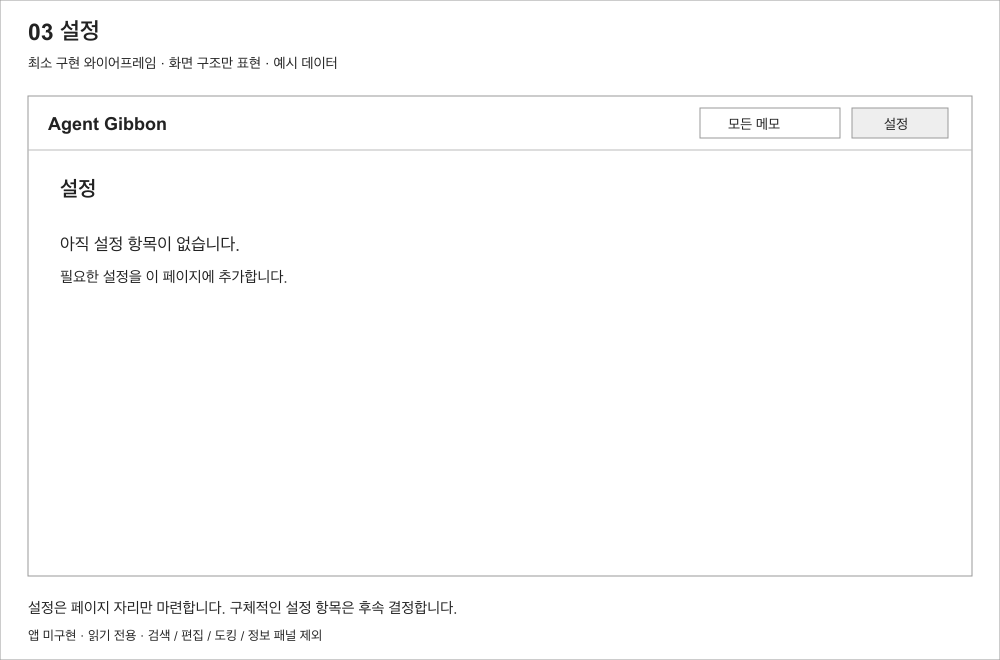
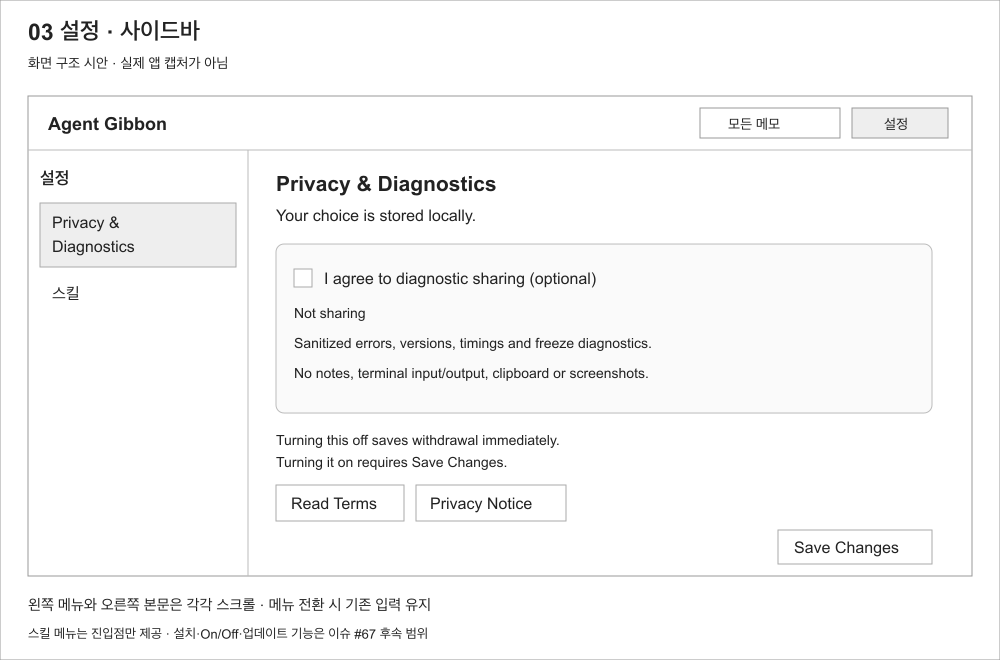
설정 사이드바에 프라이버시와 스킬 메뉴를 분리
기존 프라이버시 저장·철회와 미저장 선택을 보존하고 스킬 관리 진입점을 마련한다. 디자인 시스템·시안과 검증 기록을 갱신한다.

검증: UI 82개, 개발 빌드, 기본·최소 크기 브라우저 검사 통과. 네이티브 설정 UI와 Windows·Intel은 미검증.

Refs #69

diff --git a/ui/manager.css b/ui/manager.css
@@ -1,7 +1,19 @@
-*{box-sizing:border-box}body{margin:0;height:100vh;display:flex;flex-direction:column;background:white;color:#222;font:16px/1.5 system-ui,sans-serif}header{display:flex;align-items:center;justify-content:space-between;padding:12px 20px;border-bottom:1px solid #bbb}nav{display:flex;gap:10px}button{font:inherit;color:inherit;background:white;border:1px solid #aaa;padding:6px 16px;cursor:pointer}button[aria-pressed=true],button[aria-current=true]{background:#eee}button:focus-visible,section:focus-visible{outline:2px solid #333;outline-offset:-2px}[hidden]{display:none!important}main{display:grid;grid-template-columns:250px minmax(0,1fr);flex:1;min-height:0}aside{border-right:1px solid #bbb;padding:16px 12px;overflow:auto}h2{font-size:17px;margin:0 0 16px}#list button{display:block;width:100%;text-align:left;border-color:transparent;margin-bottom:8px;overflow-wrap:anywhere}#list button[aria-current=true]{border-color:#aaa}#detail{padding:20px 28px;overflow:auto;overflow-wrap:anywhere}#detail h1{font-size:21px;margin:0 0 20px;border-bottom:1px solid #ccc;padding-bottom:16px}#detail img{max-width:100%;height:auto}pre{white-space:pre-wrap}table{border-collapse:collapse}td,th{border:1px solid #ccc;padding:6px}#settings-page{padding:20px 32px;overflow:auto}#error{padding:8px 20px;border-bottom:1px solid #aaa}
+*{box-sizing:border-box}body{margin:0;height:100vh;display:flex;flex-direction:column;background:white;color:#222;font:16px/1.5 system-ui,sans-serif}header{display:flex;align-items:center;justify-content:space-between;padding:12px 20px;border-bottom:1px solid #bbb}nav{display:flex;gap:10px}button{font:inherit;color:inherit;background:white;border:1px solid #aaa;padding:6px 16px;cursor:pointer}button[aria-pressed=true],button[aria-current=true]{background:#eee}button:focus-visible,section:focus-visible{outline:2px solid #333;outline-offset:-2px}[hidden]{display:none!important}main{display:grid;grid-template-columns:250px minmax(0,1fr);flex:1;min-height:0}aside{border-right:1px solid #bbb;padding:16px 12px;overflow:auto}h2{font-size:17px;margin:0 0 16px}#list button{display:block;width:100%;text-align:left;border-color:transparent;margin-bottom:8px;overflow-wrap:anywhere}#list button[aria-current=true]{border-color:#aaa}#detail{padding:20px 28px;overflow:auto;overflow-wrap:anywhere}#detail h1{font-size:21px;margin:0 0 20px;border-bottom:1px solid #ccc;padding-bottom:16px}#detail img{max-width:100%;height:auto}pre{white-space:pre-wrap}table{border-collapse:collapse}td,th{border:1px solid #ccc;padding:6px}#error{padding:8px 20px;border-bottom:1px solid #aaa}
 
 .list-heading{display:flex;align-items:center;justify-content:space-between;margin-bottom:16px}.list-heading h2{margin:0}.list-heading button{font-size:12px;padding:4px 8px}#list button{white-space:nowrap;overflow:hidden;text-overflow:ellipsis}
 
 #privacy-welcome{flex:1;min-height:0;overflow:auto;padding:24px} .privacy-card{max-width:640px;margin:0 auto;padding:12px 8px}.privacy-card h1{font-size:25px;margin:0 0 12px}.privacy-card h2{font-size:21px;margin:12px 0}.privacy-card h3{font-size:17px;margin:0 0 10px}.privacy-box{border:1px solid #bbb;border-radius:8px;background:#fafafa;padding:18px;margin:20px 0}.privacy-box p{font-size:14px;color:#444}.privacy-choice{display:flex;align-items:flex-start;gap:10px;margin:16px 0}.privacy-choice input{width:18px;height:18px;flex:0 0 18px;margin-top:3px;accent-color:#333}.privacy-choice span{color:#555}.privacy-actions{display:flex;align-items:center;justify-content:space-between;gap:16px;margin-top:28px}.privacy-notice{background:#eee;border:1px solid #ccc;border-radius:6px;padding:14px;font-size:14px}.privacy-links{display:flex;gap:12px}.privacy-settings{margin:0;max-width:720px}button:disabled{opacity:.55;cursor:default}#privacy-error{padding:12px 24px;background:#f8eeee;color:#722}#privacy-retry{align-self:flex-start;margin:8px 24px}#privacy-storage-warning{padding:0 24px}.privacy-document{position:fixed;inset:16px;z-index:20;overflow:auto;background:#fff;border:2px solid #666;padding:24px;box-shadow:0 8px 24px #0003}.privacy-document-heading{display:flex;justify-content:space-between;align-items:center;gap:20px}.privacy-document article{max-width:800px;margin:24px auto;overflow-wrap:anywhere}.privacy-document article h1{font-size:24px}.privacy-document article h2{margin-top:28px}#privacy-retry[hidden]{display:none}
 
 .privacy-agreement{margin:20px 0 0;padding-top:16px;border-top:1px solid #ddd}.privacy-choice .privacy-choice-label{color:inherit}
+
+/* Settings shares the manager's two-panel navigation structure. */
+#settings-page{display:grid;grid-template-columns:220px minmax(0,1fr);flex:1;min-height:0;padding:0;overflow:hidden}
+.settings-sidebar h1{font-size:17px;margin:0 0 16px}
+.settings-sidebar nav{display:flex;flex-direction:column;gap:8px}
+.settings-sidebar button{width:100%;min-height:36px;padding:8px 12px;text-align:left;border-color:transparent;overflow-wrap:anywhere}
+.settings-sidebar button[aria-current=page]{background:#eee;border-color:#aaa}
+.settings-content{min-width:0;overflow:auto;padding:20px 28px;scrollbar-gutter:stable}
+.settings-content h2{font-size:21px;margin:12px 0}
+.settings-content .privacy-card{padding:0}
+.settings-content .privacy-links,.settings-content .privacy-actions{flex-wrap:wrap}
+@media(max-width:680px){#settings-page{grid-template-columns:164px minmax(0,1fr)}.settings-content{padding:16px}.settings-sidebar{padding:16px 8px}.settings-sidebar button{font-size:14px;padding:8px}}

diff --git a/ui/manager.html b/ui/manager.html
@@ -3,12 +3,20 @@
 <body><header><strong>Agent Gibbon</strong><nav id="manager-navigation" aria-label="관리 탐색" hidden><button id="notes-nav" aria-pressed="true">모든 메모</button><button id="settings-nav" aria-pressed="false">설정</button></nav></header>
 <div id="error" role="alert" hidden>메모를 읽지 못했습니다. <button id="retry">다시 시도</button></div>
 <main id="notes-page" hidden><aside aria-label="메모 목록"><div class="list-heading"><h2>모든 메모</h2><button id="refresh" aria-label="메모 목록 새로고침">새로고침</button></div><div id="list"></div></aside><section id="detail" aria-label="메모 상세" tabindex="0"><p>메모를 선택하세요.</p></section></main>
-<section id="settings-page" hidden><h1>Settings</h1><div class="privacy-card privacy-settings"><h2>Privacy &amp; Diagnostics</h2><p>Your choice is stored locally.</p>
+<section id="settings-page" aria-label="설정" hidden>
+<aside class="settings-sidebar"><h1>설정</h1><nav aria-label="설정 항목">
+<button id="settings-privacy-nav" type="button" aria-current="page" aria-controls="settings-privacy">Privacy &amp; Diagnostics</button>
+<button id="settings-skills-nav" type="button" aria-controls="settings-skills">스킬</button>
+</nav></aside>
+<div class="settings-content">
+<section id="settings-privacy" aria-labelledby="settings-privacy-title"><div class="privacy-card privacy-settings"><h2 id="settings-privacy-title">Privacy &amp; Diagnostics</h2><p>Your choice is stored locally.</p>
 <div class="privacy-box"><label class="privacy-choice"><input id="privacy-setting-share" type="checkbox" disabled> I agree to diagnostic sharing (optional)</label><p id="privacy-sharing-status" role="status">Not sharing</p><p>Sanitized errors, app/OS versions, operation timings and freeze diagnostics.</p><p>No notes, terminal input/output, clipboard or screenshots.</p><p>Sent to Sentry in Iowa, United States. Originals: up to 30 days. Read the notice for backup and aggregate retention and overseas transfer details.</p></div>
 <p>Turning this off saves withdrawal immediately. Turning it on requires Save Changes. A request already started before withdrawal may finish. Previously uploaded information is handled separately.</p>
 <p id="privacy-settings-draft" class="privacy-notice">Sharing is unavailable until all privacy details are published. Read the Privacy Notice for the current operator, storage region and retention information.</p>
 <div class="privacy-links"><button id="privacy-settings-terms" type="button">Read Terms</button><button id="privacy-settings-notice" type="button">Privacy Notice</button></div>
 <div class="privacy-actions"><span id="privacy-save-result" role="status"></span><button id="privacy-save" type="button" disabled>Save Changes</button></div></div></section>
+<section id="settings-skills" aria-labelledby="settings-skills-title" hidden><h2 id="settings-skills-title">스킬</h2><p>스킬 설정은 준비 중입니다.</p></section>
+</div></section>
 <section id="privacy-welcome" aria-labelledby="privacy-welcome-title">
   <div class="privacy-card">
     <h1 id="privacy-welcome-title">Welcome to Agent Gibbon</h1><h2>Terms &amp; Privacy</h2>

diff --git a/ui/manager.js b/ui/manager.js
@@ -2,6 +2,18 @@
 const invoke = window.gibbonInvoke || window.__TAURI__.core.invoke;
 const el = id => document.getElementById(id);
 let notes = [], selected = null, busy = false, detailVersion = 0, signature = '';
+// Register settings destinations here; navigation preserves each panel's DOM.
+const settingsSections = ['privacy', 'skills'];
+function settingsSection(selectedSection) {
+  for (const section of settingsSections) {
+    const active = section === selectedSection;
+    el(`settings-${section}`).hidden = !active;
+    el(`settings-${section}-nav`).setAttribute('aria-current', active ? 'page' : 'false');
+  }
+}
+for (const section of settingsSections) {
+  el(`settings-${section}-nav`).onclick = () => settingsSection(section);
+}
 function page(settings) {
   if(window.gibbonPrivacy && !window.gibbonPrivacy.accepted()){window.gibbonPrivacy.showWelcome();return;}
   el('notes-page').hidden = settings;

diff --git a/docs/design-system.md b/docs/design-system.md
@@ -1,5 +1,14 @@
 # Agent Gibbon Design System
 
+### 설정 사이드바 — #67 진입점 (2026-11-06)
+
+- 관리 창 상단의 `모든 메모 / 설정`을 유지하고 설정 안에 왼쪽 탐색·오른쪽 본문을 둔다. 메뉴는 기존 동의 기능의 `Privacy & Diagnostics`와 `스킬`이다. 처음에는 프라이버시를 표시하고, 관리 창을 열어 둔 동안 마지막으로 선택한 설정 항목을 유지한다.
+- 선택 메뉴는 회색 배경·테두리와 `aria-current="page"`, 키보드 초점은 별도 외곽선으로 표시한다. 기본 버튼의 Tab·Enter·Space 조작을 사용한다. 메뉴와 본문은 각각 스크롤하며, 본문이 길어도 사이드바를 밀어내지 않는다.
+- 메뉴 전환은 패널을 다시 만들지 않아 프라이버시의 미저장 선택을 유지한다. 기존 명시적 저장·즉시 철회·로컬 약관 열람 및 첫 실행 동의 경계를 유지한다. 모든 메모의 선택도 유지한다.
+- 이번 구현은 사이드바와 메뉴 등록 범위다. `스킬`에는 준비 중 상태를 표시하며 이슈 #67의 스킬 목록·On/Off·설치·업데이트를 구현 완료로 표시하지 않는다. 실제 제공 스킬이 결정되기 전에 예시 스킬이나 작동하지 않는 스위치를 추가하지 않는다.
+- 구현 수치: 기본 사이드바 220px, 680px 이하에서 164px, 본문 여백 20px/28px(좁을 때 16px). 실제 최소 창 600×360에서 스크롤 접근성을 확인한다. 기존 메모 창의 위치·포커스·숨김 동작은 변경하지 않는다.
+- [설정 시안 SVG](design/manager-settings-wireframe.svg)·[PNG](design/manager-settings-wireframe.png)를 갱신했다. 시안은 설명용이며 실행 결과와 구분한다. 검증과 미실행 범위는 [작업 기록](verification/settings-sidebar-20261106.md)을 따른다.
+
 ### Windows 반복 행 조사 계측 — #66 (2026-11-06)
 
 - 메모 상태 조회의 Notes 잠금을 네이티브 창 조회 전에 해제하고 별도 선택형 로컬 단계 기록을 추가했다. 외형·배치·포커스·숨김에 관한 기존 기준과 SVG/PNG는 유지한다.
@@ -401,13 +410,13 @@ Toast 한 줄 높이는 위 제안값에서 약 25px, Action Bar는 약 32px가 
 - 텍스트는 Markdown 미리보기, 캡처 메모는 이미지 미리보기로 표시한다. 두 화면은 같은 상세 패널의 콘텐츠 유형 차이이며 별도의 페이지가 아니다. 목록과 긴 본문은 각각 스크롤한다. 이미지는 패널 너비에 맞춘다.
 - 최초에는 `메모를 선택하세요`, 저장 메모가 없으면 `아직 메모가 없습니다`를 표시한다. 읽기 실패 시 오류와 `다시 시도`를 제공한다.
 - 선택 강조는 조회 대상을 뜻한다. 조회만으로 플로팅 메모의 표시·숨김·위치·포커스를 변경하지 않는다.
-- 설정은 **진입과 페이지 전환만** 마련한다. 구체적인 설정 항목은 아직 정하지 않았으므로 `아직 설정 항목이 없습니다`라는 빈 상태를 둔다. 작동하지 않는 입력이나 저장 버튼을 배치하지 않는다. 실제 설정 변경 기능은 후속 범위다.
+- 초기 구현은 빈 설정 페이지였으며, 현재 설정의 구성·동작은 위의 **설정 사이드바**와 **첫 실행 약관·선택적 진단 동의** 기준으로 대체한다.
 - 설정에서 돌아오면 같은 관리 창에서 선택한 메모를 유지한다. 관리 창을 닫아도 플로팅 메모와 앱 실행은 유지한다. Tray Menu의 `메모 관리`를 진입점으로 제안한다.
 - 키보드 Tab으로 탐색·목록 항목에 접근하고 Enter로 선택할 수 있게 하며 포커스를 표시한다. 패널의 역할·순서는 고정하고 자유로운 드래그 재배치는 제공하지 않는다.
 
 ### 이번 범위에서 제외
 
-검색·필터·정렬 UI, 새 메모 생성, 원문 편집, 복사·내보내기, 화면에 띄우기·숨기기, 메모 정보 패널, 이미지 확대 조작, 설정 분류·입력·저장, 사용자 패널 재배치, 좁은 창의 별도 단일 패널 탐색은 후속 검토로 미룬다. 이는 관리 창의 범위이며 기존 플로팅 메모·CLI 기능을 제거한다는 뜻이 아니다. 앞서 정의한 Memo Info Panel·Editor 등 용어는 유지하되 이번 관리 창에 모두 구현하지 않는다.
+검색·필터·정렬 UI, 새 메모 생성, 원문 편집, 복사·내보내기, 화면에 띄우기·숨기기, 메모 정보 패널, 이미지 확대 조작, 사용자 패널 재배치, 좁은 창의 별도 단일 패널 탐색은 후속 검토로 미룬다. 이는 관리 창의 범위이며 기존 플로팅 메모·CLI 기능을 제거한다는 뜻이 아니다. 앞서 정의한 Memo Info Panel·Editor 등 용어는 유지하되 이번 관리 창에 모두 구현하지 않는다.
 
 제안 창 크기는 944×480이며 최소 지원 크기는 구현 시 내용과 키보드 접근을 확인해 결정한다. 앱의 기본 색상·아이콘·장식 디자인은 이번 시안에서 정하지 않는다.
 

diff --git a/docs/verification/settings-sidebar-20261106.md b/docs/verification/settings-sidebar-20261106.md
@@ -1,0 +1,45 @@
+# 설정 사이드바와 메뉴 등록 — 2026-11-06
+
+이번 구현 범위는 설정 사이드바, 기존 프라이버시 기능의 메뉴 분리, 이슈 #67의 스킬 메뉴 진입점이다. 스킬 화면은 준비 중 상태이며 스킬 목록·On/Off·자동 설치·업데이트·영속 저장은 구현하지 않았다. 이슈 #67 전체 완료를 뜻하지 않는다.
+
+## 수행 결과
+
+- [x] 사이드바에 Privacy & Diagnostics / 스킬 등록, 선택 강조와 접근성 현재 페이지 상태 제공.
+- [x] 프라이버시 UI를 기존 ID·저장 이벤트 그대로 별도 패널에 배치. 메뉴 전환 시 DOM·미저장 선택 유지.
+- [x] 기본 버튼의 클릭·Enter·Space·Tab, 모든 메모 선택 및 설정 항목 유지 검사.
+- [x] UI 테스트 82개 통과(`npm run test:ui`). 프라이버시의 동의 경계·저장·즉시 철회 회귀 검사 포함.
+- [x] 실제 UI 자산의 headless Chrome 검사: 944×480 / 600×360에서 가로 넘침 없음, 하단 Save Changes 스크롤 접근, 메뉴 전환, 미저장 선택 유지, 저장 및 끄기 즉시 호출 확인. Tauri 호출은 메모리 mock으로 대체했다. JavaScript 오류 없음.
+- [x] `npm run dev:build` 통과(최종 증분 빌드 포함), `node --check ui/manager.js`, `git diff --check` 통과.
+- [x] 기존 설정 시안 SVG·PNG 갱신, rsvg-convert 렌더와 실제 브라우저 캡처 시각 확인.
+- [ ] 네이티브 Manager UI·실제 저장 파일·실행 중 서버 inspect 검증 미수행. 개발 앱 미실행으로 list가 `ok:false / 앱이 실행 중이지 않습니다`를 반환했다. 해당 결과를 실행 중 서버의 출처 확인으로 간주하지 않는다.
+- [ ] Windows·Intel·실제 스크린리더 읽기 미검증.
+
+## 실행 출처
+
+- 작업 루트: `/Users/egoinglee/orca/workspaces/agent-gibbon/floatnote/on-off`.
+- `npm run dev:info`: root는 위 경로, instance `dev-1206da86e9acf14ddf9c123c`, binary는 해당 루트 `src-tauri/target/debug/agent-gibbon`.
+- `scripts/agent-gibbon-dev --instance-info`: `ok:true`, instance 일치, manifest_dir는 해당 루트의 `src-tauri`.
+- `scripts/agent-gibbon-dev list`: `ok:false`, 앱 미실행. 검증 메모·네이티브 PID·창 식별 근거는 없으며 브라우저 결과를 네이티브 검증으로 보고하지 않는다. 다른 워크트리나 설치 앱을 대체 실행하지 않았다.
+- 환경: macOS ARM64, Node v24.21.0, Rust 1.91.1. 브라우저 자동화는 설치된 Chrome 및 기존 puppeteer-core 25.16.0 사용, 의존성 추가 없음.
+
+재현 스크립트: `scripts/settings-sidebar-smoke.mjs`. 기존 puppeteer-core를 `PUPPETEER_MODULE`에 절대 모듈 경로로 지정하고 `node scripts/settings-sidebar-smoke.mjs`로 실행한다. 기본 Chrome 경로와 다른 환경에서는 `CHROME_BIN`도 지정한다. 임시 캡처는 `/tmp/gibbon-sidebar/`에 생성한다. 별도 서버나 외부 API를 호출하지 않는다.
+
+## 화면 근거
+
+다음은 실제 프런트엔드 자산을 Chrome에서 열어 촬영한 캡처이며 Tauri 앱 캡처가 아니다. mock 동의 상태로 동작하며 사용자 약관·진단 전송 동의는 변경하지 않았다.
+
+- [944×480 프라이버시](settings-sidebar-20261106/privacy-944.png)
+- [600×360 프라이버시](settings-sidebar-20261106/privacy-600.png)
+- [스킬 진입점](settings-sidebar-20261106/skills-944.png)
+
+디자인 기준은 [디자인 시스템](../design-system.md#설정-사이드바--67-진입점-2026-11-06), 설명용 시안은 [SVG](../design/manager-settings-wireframe.svg)·[PNG](../design/manager-settings-wireframe.png)를 따른다.
+
+기존 `package-lock.json` 미커밋 변경은 작업 시작 전부터 존재했으며 보존했다. 커밋·병합·배포는 수행하지 않았다.
+
+Conf 4: mock 호출을 사용하는 실제 자산의 브라우저 검증. Risk Low: 국소적인 메뉴·레이아웃 변경.
+
+## 후속 실행·정리
+
+사용자 요청으로 `npm run dev -- --no-watch`를 실행했다. PID 70065의 실행 파일은 현재 루트 `src-tauri/target/debug/agent-gibbon`과 일치한다. 최초 CLI 응답은 `onboarding_required:true`였으며, 이후 사용자 조작 뒤 만든 진행 메모 `issue67-work-20261106`의 `inspect`에서 `ok:true`, instance `dev-1206da86e9acf14ddf9c123c`, ID와 체크리스트 본문을 확인했다. 이 확인은 CLI 출처이며 Manager 화면의 native 검증을 대신하지 않는다.
+
+사이드바 작업은 #69로 분리했고 사용자가 커밋·main 병합·푸시를 승인했다. 스킬 관리 핵심 기능은 #67로 이어진다.

diff --git a/README.md b/README.md
@@ -214,6 +214,10 @@ macOS에서는 마우스 포인터가 노트 밖에 있으면 창 전체가 50% 
 
 Rust에서 Markdown을 HTML로 변환하고 정리한 뒤 WebView에 전달합니다. HTML 입력을 실행하지 않으며 체크리스트는 ☑/☐로 표시합니다. 이미지와 링크 이동은 지원하지 않습니다. CSP와 최소 창 조작 권한을 적용했습니다.
 
+## 설정 탐색
+
+관리 창의 **설정**에서 왼쪽 사이드바로 **Privacy & Diagnostics**와 **스킬**을 전환합니다. 프라이버시 동의의 저장·철회·약관 열람은 프라이버시 항목에서 제공합니다. 스킬 메뉴는 현재 준비 중이며 설치와 On/Off는 후속 범위입니다. 화면 구성과 동작 기준은 [디자인 시스템](docs/design-system.md)을 따릅니다.
+
 ## 에이전트용 사용 스킬
 
 [Agent Gibbon 사용 스킬](.agents/skills/agent-gibbon/SKILL.md)은 설치된 macOS 앱의 실행 경로와 메모 생성·조회·갱신·색상 지정·숨김 보존 규칙을 담고 있습니다. 일반 메모는 설치 앱을 사용하며, 앱이 없으면 조용히 건너뜁니다. 특정 워크트리의 개발 앱 사용을 명시했거나 Agent Gibbon 자체를 개발·검증하는 작업에서는 해당 워크트리의 개발 스크립트를 사용합니다. 개발 실행 절차는 위의 빌드와 실행 절을 따릅니다. 작업계획 표시 같은 운영 정책은 사용자 `AGENTS.md`에서 정합니다. 예제는 [examples/progress.md](examples/progress.md)입니다.
